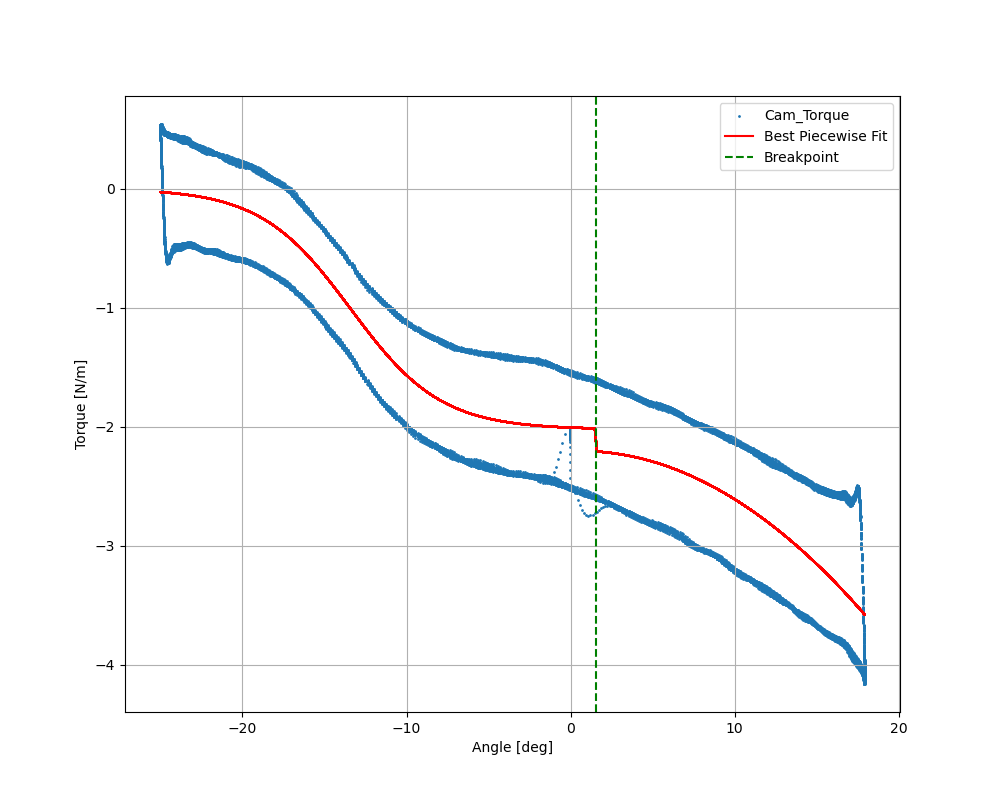
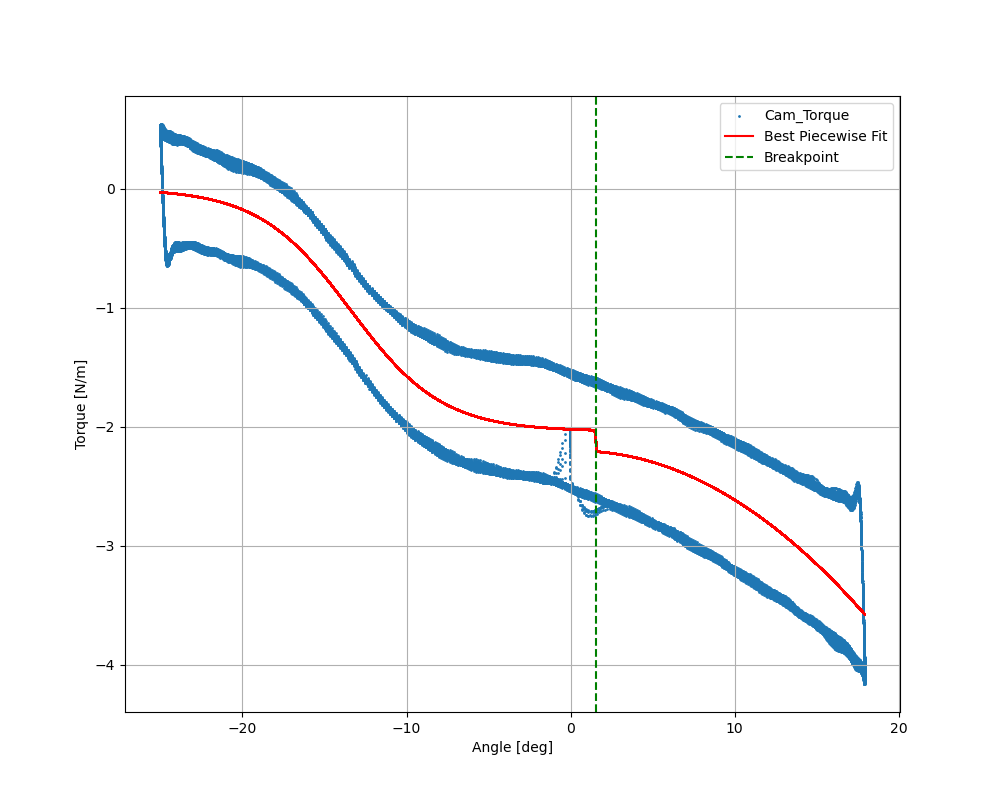
plotter update

diff --git a/plotter.py b/plotter.py
@@ -53,15 +53,16 @@ def load_mat(file_path, calibration_path=None, adjust=False, lpf=False, cutoff=5
 
     if adjust:
         adjusted_time, adjusted_angle = proc.adjusted_data(JIM_time, JIM_angle, 100, 0.05)
-        return adjusted_time, adjusted_angle, JIM_torque
+        return adjusted_time, adjusted_angle
     else:
         return JIM_time, JIM_angle, JIM_torque
 
 
 def load_cam():
+    all_angle, all_torque = [], []
+
     for i in range(1, 6):
-        all_angle, all_torque = [], []
-        file_index = f"{i:03d}"  # Formats the index as 3 digits with leading zeros
+        file_index = f"{i:03d}"
 
         # file_path_JIM_cal = f"I:\\My Drive\\Neurobionics\\ExoBoot\\cam_torque_angle\\CAL_long_slowsinewithpad{file_index}.mat"
         # file_path_JIM = f"I:\\My Drive\\Neurobionics\\ExoBoot\\cam_torque_angle\\EXO_long_slowsinewithpad{file_index}.mat"
@@ -71,13 +72,13 @@ def load_cam():
         JIM_time, JIM_angle, JIM_torque = load_mat(file_path_JIM, file_path_JIM_cal, False, True)
 
         # plt.scatter(JIM_angle, JIM_torque, label=f'Torque_cam_{i}', s=1)
-
-        all_angle.append(JIM_angle)
-        all_torque.append(JIM_torque)
+        print(len(JIM_torque))
+        all_angle.extend(JIM_angle)
+        all_torque.extend(JIM_torque)
 
     all_angle = np.array(all_angle)
     all_torque = np.array(all_torque)
-
+    print(len(all_torque))
     return all_angle, all_torque
 
 
@@ -162,5 +163,4 @@ def plot_piecewise_fit():
     plt.show()
 
 
-# plot_piecewise_fit()
-plot_cam_data()
+plot_piecewise_fit()
